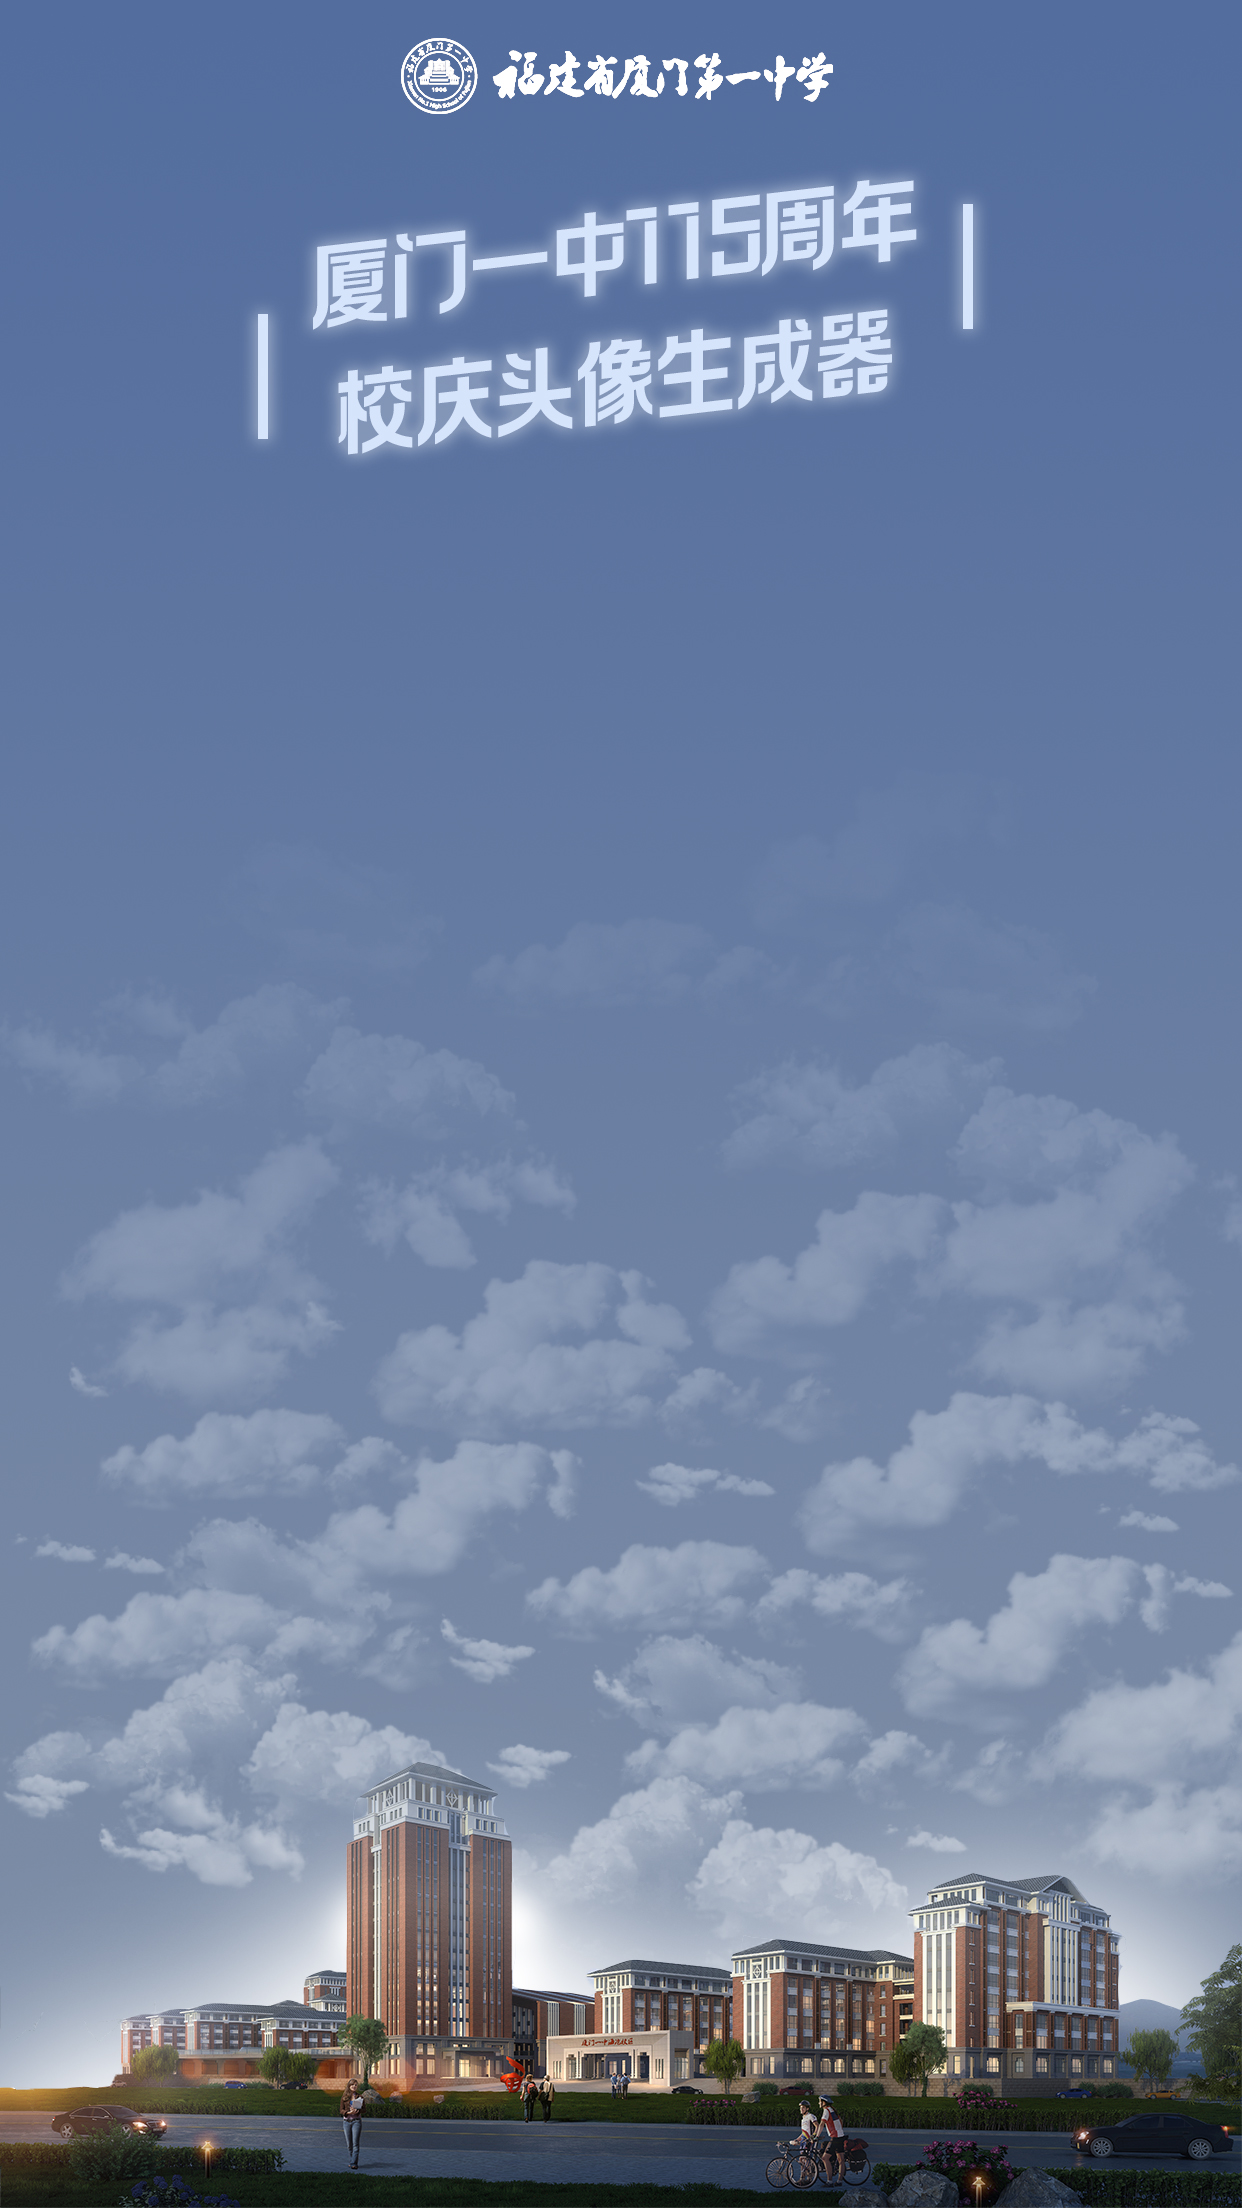
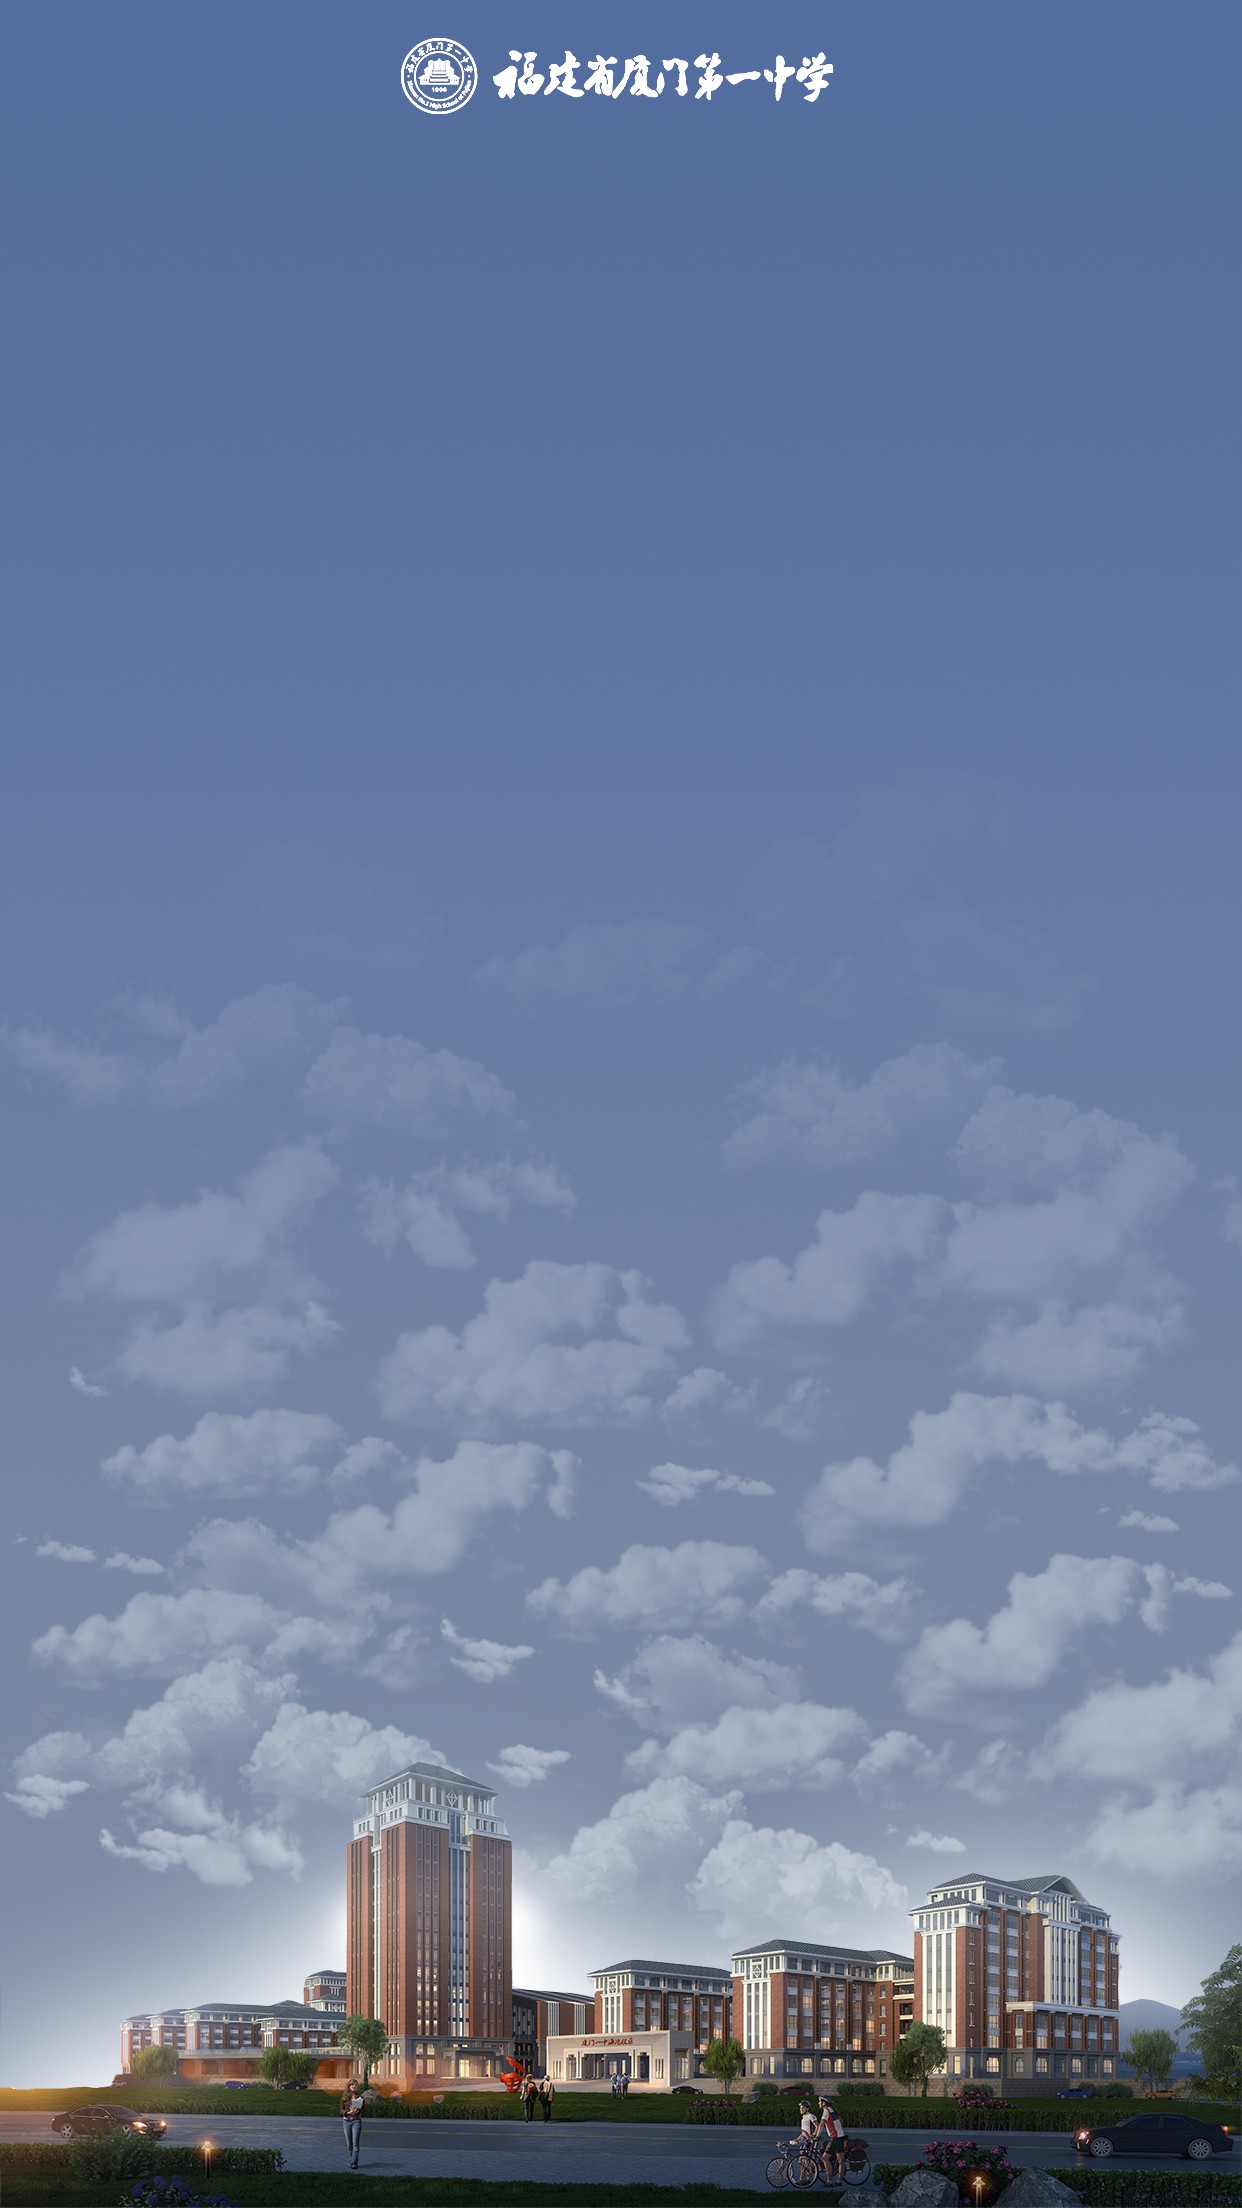
fix ui

Changed region(s): [[0.1836, 0.0625, 0.7343, 0.2188], [0.7649, 0.0938, 0.7955, 0.1562]]

diff --git a/src/App.vue b/src/App.vue
@@ -1,6 +1,8 @@
 <template>
   <div id="app">
-    <div id="empty"></div>
+    <div class="title">
+      <img src="./assets/title.png" width="70%" />
+    </div>
     <app-main @save="saveImage = $event" />
     <transition name="el-zoom-in-top">
       <app-save
@@ -10,7 +12,7 @@
       />
     </transition>
     <footer class="copyright">
-      Developer: @BYR Team:xyToki, @XYSU(HC).Tech
+      Support by XYSU(HC).Tech
     </footer>
   </div>
 </template>
@@ -57,15 +59,15 @@ html {
   background-image: url(~@/assets/h5bg.jpg);
   background-repeat: no-repeat;
   background-size: cover;
+  background-position: top;
 }
-#empty {
-  margin-top: 230px;
+.title {
+  text-align: center;
+  margin-bottom: 20px;
+  margin-top: 50px;
 }
 .copyright {
-  position: fixed;
-  bottom: 0;
-  left: 0;
-  right: 0;
+  margin-top: 6px;
   text-align: center;
   color: #fff;
   font-size: 12px;
